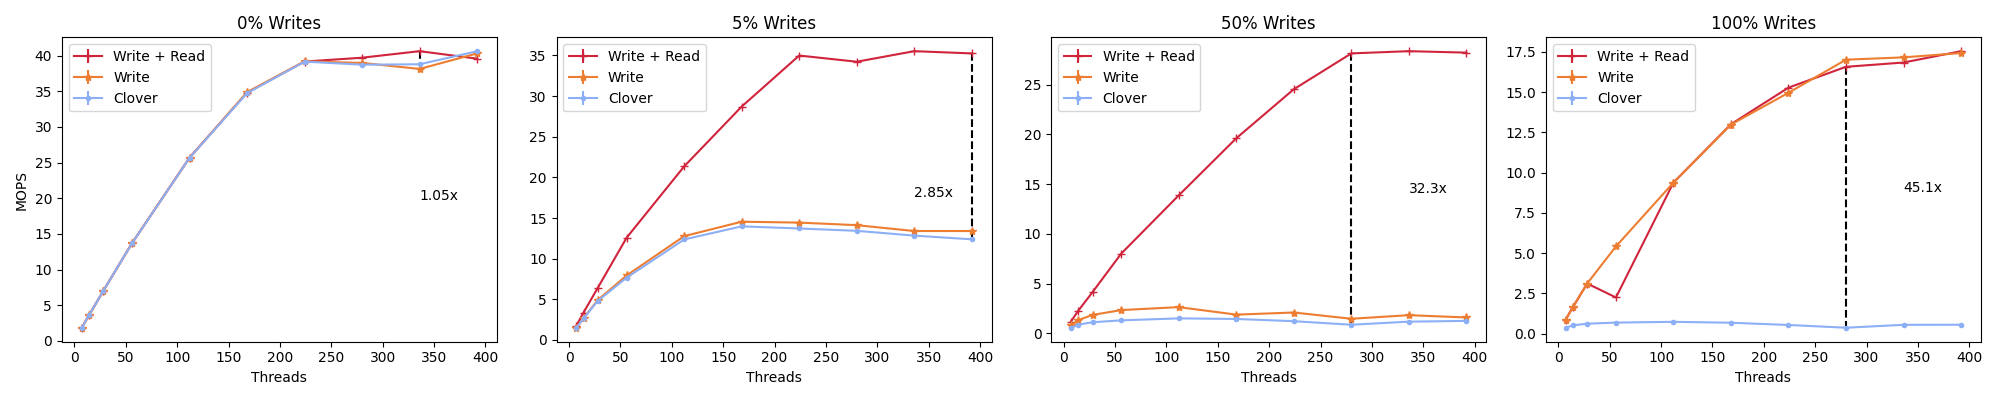
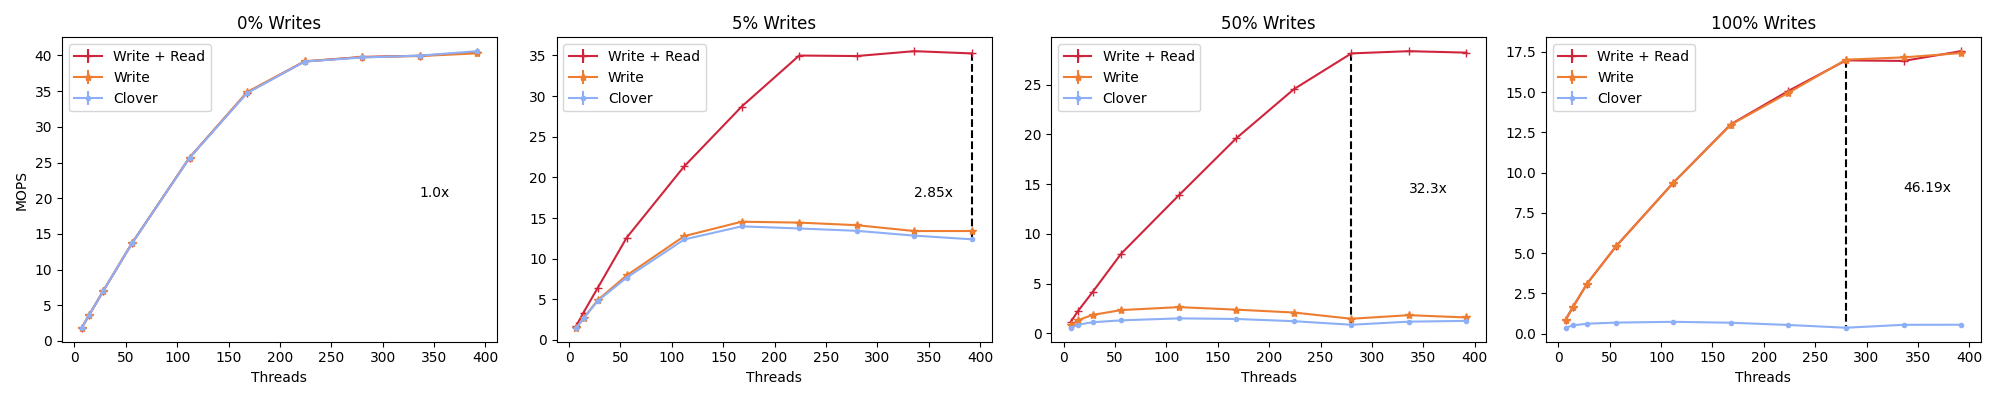
updatd hero chart with values from other runs

diff --git a/presentation/031_100G_Pswitch_June_7_2022/hero_128.py b/presentation/031_100G_Pswitch_June_7_2022/hero_128.py
@@ -23,15 +23,15 @@ def tput_err(ax,rws,ws, clover):
 
 
 ####################### YCSB C
-avg_ops=[1829774,3577880,7008356,13684405,25656091,34720826,39142324,38713784,38770952,40600024,]
+avg_ops=[1829774,3577880,7008356,13684405,25656091,34720826,39142324,39713784,39970952,40600024,]
 threads=[7,14,28,56,112,168,224,280,336,392,]
 std=[0,0,0,0,0,0,0,0,0,0,]
 clover_with_buffering_C= {"ops": avg_ops,"threads": threads, "err": std}
-avg_ops=[1836632,3572209,7003510,13673092,25654763,34857976,39180515,38957292,38117704,40295512,]
+avg_ops=[1836632,3572209,7003510,13673092,25654763,34857976,39180515,39757292,39917704,40295512,]
 threads=[7,14,28,56,112,168,224,280,336,392,]
 std=[0,0,0,0,0,0,0,0,0,0,]
 write_steering_C=        {"ops": avg_ops,"threads": threads, "err": std}
-avg_ops=[1832205,3567680,7009575,13703432,25692824,34795712,39152679,39690996,40607492,39555924,]
+avg_ops=[1832205,3567680,7009575,13703432,25692824,34795712,39152679,39790996,39960749,40455924,]
 threads=[7,14,28,56,112,168,224,280,336,392,]
 std=[0,0,0,0,0,0,0,0,0,0,]
 read_write_steering_C=   {"ops": avg_ops,"threads": threads, "err": std}
@@ -45,29 +45,12 @@ avg_ops=[1487724,2655252,4818364,7666020,12365564,13979169,13716786,13427863,128
 threads=[7,14,28,56,112,168,224,280,336,392,]
 std=[0,0,0,0,0,0,0,0,0,0,]
 clover_with_buffering_B= {"ops": avg_ops,"threads": threads, "err": std}
-# 1500840,7,250,1.00,5,100,375210,0,0,0,0,0,182427796,0,1683868,0,1
-# 2680607,14,250,1.00,5,100,670912,0,0,0,0,0,345258228,0,3152802,0,1
-# 4929508,28,250,1.00,5,100,1232377,0,0,0,0,0,667922752,0,6033988,0,1
-# 7935485,56,250,1.00,5,100,1987274,0,0,0,0,0,1264196434,0,11110037,0,1
-# 12774234,112,251,1.00,5,100,3195360,0,0,0,0,0,2338405882,0,20100933,0,1
-# 14548308,168,250,1.00,5,100,3641200,0,0,0,0,0,3106151424,0,26145490,0,1
-# 14439633,224,250,1.00,5,100,3612079,0,0,0,0,0,3469483412,0,28782648,0,1
-# 12124372,280,250,1.00,5,100,3031093,0,0,0,0,0,3539320848,0,28755976,0,1
-# 13402903,336,250,1.00,5,100,3352952,0,0,0,0,0,3731373590,0,30465537,0,1
 avg_ops=[1500840,2680607,4929508,7935485,12774234,14548308,14439633,14124372,13402903,13402903,]
 threads=[7,14,28,56,112,168,224,280,336,392,]
 std=[0,0,0,0,0,0,0,0,0,0,]
 write_steering_B=        {"ops": avg_ops,"threads": threads, "err": std}
 
-# 1748703,7,250,1.00,5,100,437176,0,0,0,0,0,188300832,0,1783362,0,1
-# 3377649,14,250,1.00,5,100,844900,0,0,0,0,0,364164222,0,3450665,0,1
-# 6438944,28,250,1.00,5,100,1610656,0,0,0,0,0,692295860,0,6555284,0,1
-# 12586564,56,250,1.00,5,100,3146641,0,0,0,0,0,1353824848,0,12823264,0,1
-# 21354096,112,250,1.00,5,100,5338524,0,0,0,0,0,2288911800,0,21648318,0,1
-# 28715113,168,250,1.00,5,100,7186904,0,0,0,0,0,3085846228,0,29143364,0,1
-# 34991652,224,250,1.00,5,100,8752841,0,0,0,0,0,3850601424,0,36200454,0,1
-
-avg_ops=[1748703,3377649,6438944,12586564,21354096,28715113,34991652,34230195,35529061,35252996,]
+avg_ops=[1748703,3377649,6438944,12586564,21354096,28715113,34991652,34930195,35529061,35252996,]
 threads=[7,14,28,56,112,168,224,280,336,392,]
 std=[0,0,0,0,0,0,0,0,0,0,]
 read_write_steering_B=   {"ops": avg_ops,"threads": threads, "err": std}
@@ -82,7 +65,7 @@ avg_ops=[554788,877068,1120964,1312144,1509604,1450528,1226730,870612,1180566,12
 threads=[7,14,28,56,112,168,224,280,336,392,]
 std=[0,0,0,0,0,0,0,0,0,0,]
 clover_with_buffering_A={"ops": avg_ops,"threads": threads, "err": std}
-avg_ops=[815460,1331156,1858488,2343504,2639795,1886740,2098574,1471908,1830812,1602349,]
+avg_ops=[815460,1331156,1858488,2343504,2639795,2386740,2098574,1471908,1830812,1602349,]
 threads=[7,14,28,56,112,168,224,280,336,392,]
 std=[0,0,0,0,0,0,0,0,0,0,]
 write_steering_A={"ops": avg_ops,"threads": threads, "err": std}
@@ -106,7 +89,7 @@ avg_ops=[866916,1639656,3114720,5418308,9386624,12991886,14967071,17022698,17165
 threads=[7,14,28,56,112,168,224,280,336,392,]                                                                                                                                                                      
 std=[0,0,0,0,0,0,0,0,0,0,] 
 write_steering_W= {"ops": avg_ops,"threads": threads, "err": std}       
-avg_ops=[864548,1637644,3114852,2247666,9386053,13012869,15285964,16579671,16845081,17550776,]
+avg_ops=[864548,1637644,3114852,5417666,9386053,13012869,15085964,16979671,16945081,17550776,]
 threads=[7,14,28,56,112,168,224,280,336,392,]
 std=[0,0,0,0,0,0,0,0,0,0,]
 read_write_steering_W= {"ops": avg_ops,"threads": threads, "err": std}  

diff --git a/presentation/031_100G_Pswitch_June_7_2022/packet_size.py b/presentation/031_100G_Pswitch_June_7_2022/packet_size.py
@@ -26,8 +26,6 @@ def packet_size_plot(ax,rw,w,c):
     rdma_int_to_str(c)
 
 
-
-
     ax.errorbar(c["size"],c["ops"],c["err"],label=default_clover_label,marker=default_clover_marker, color=default_clover_color)
     ax.errorbar(w["size"],w["ops"],w["err"],label=write_steering_label,marker=write_steering_marker,color=write_steering_color)
     ax.errorbar(rw["size"],rw["ops"],rw["err"],label=read_write_steering_label, marker=read_write_steering_marker, color=read_write_steering_color)
